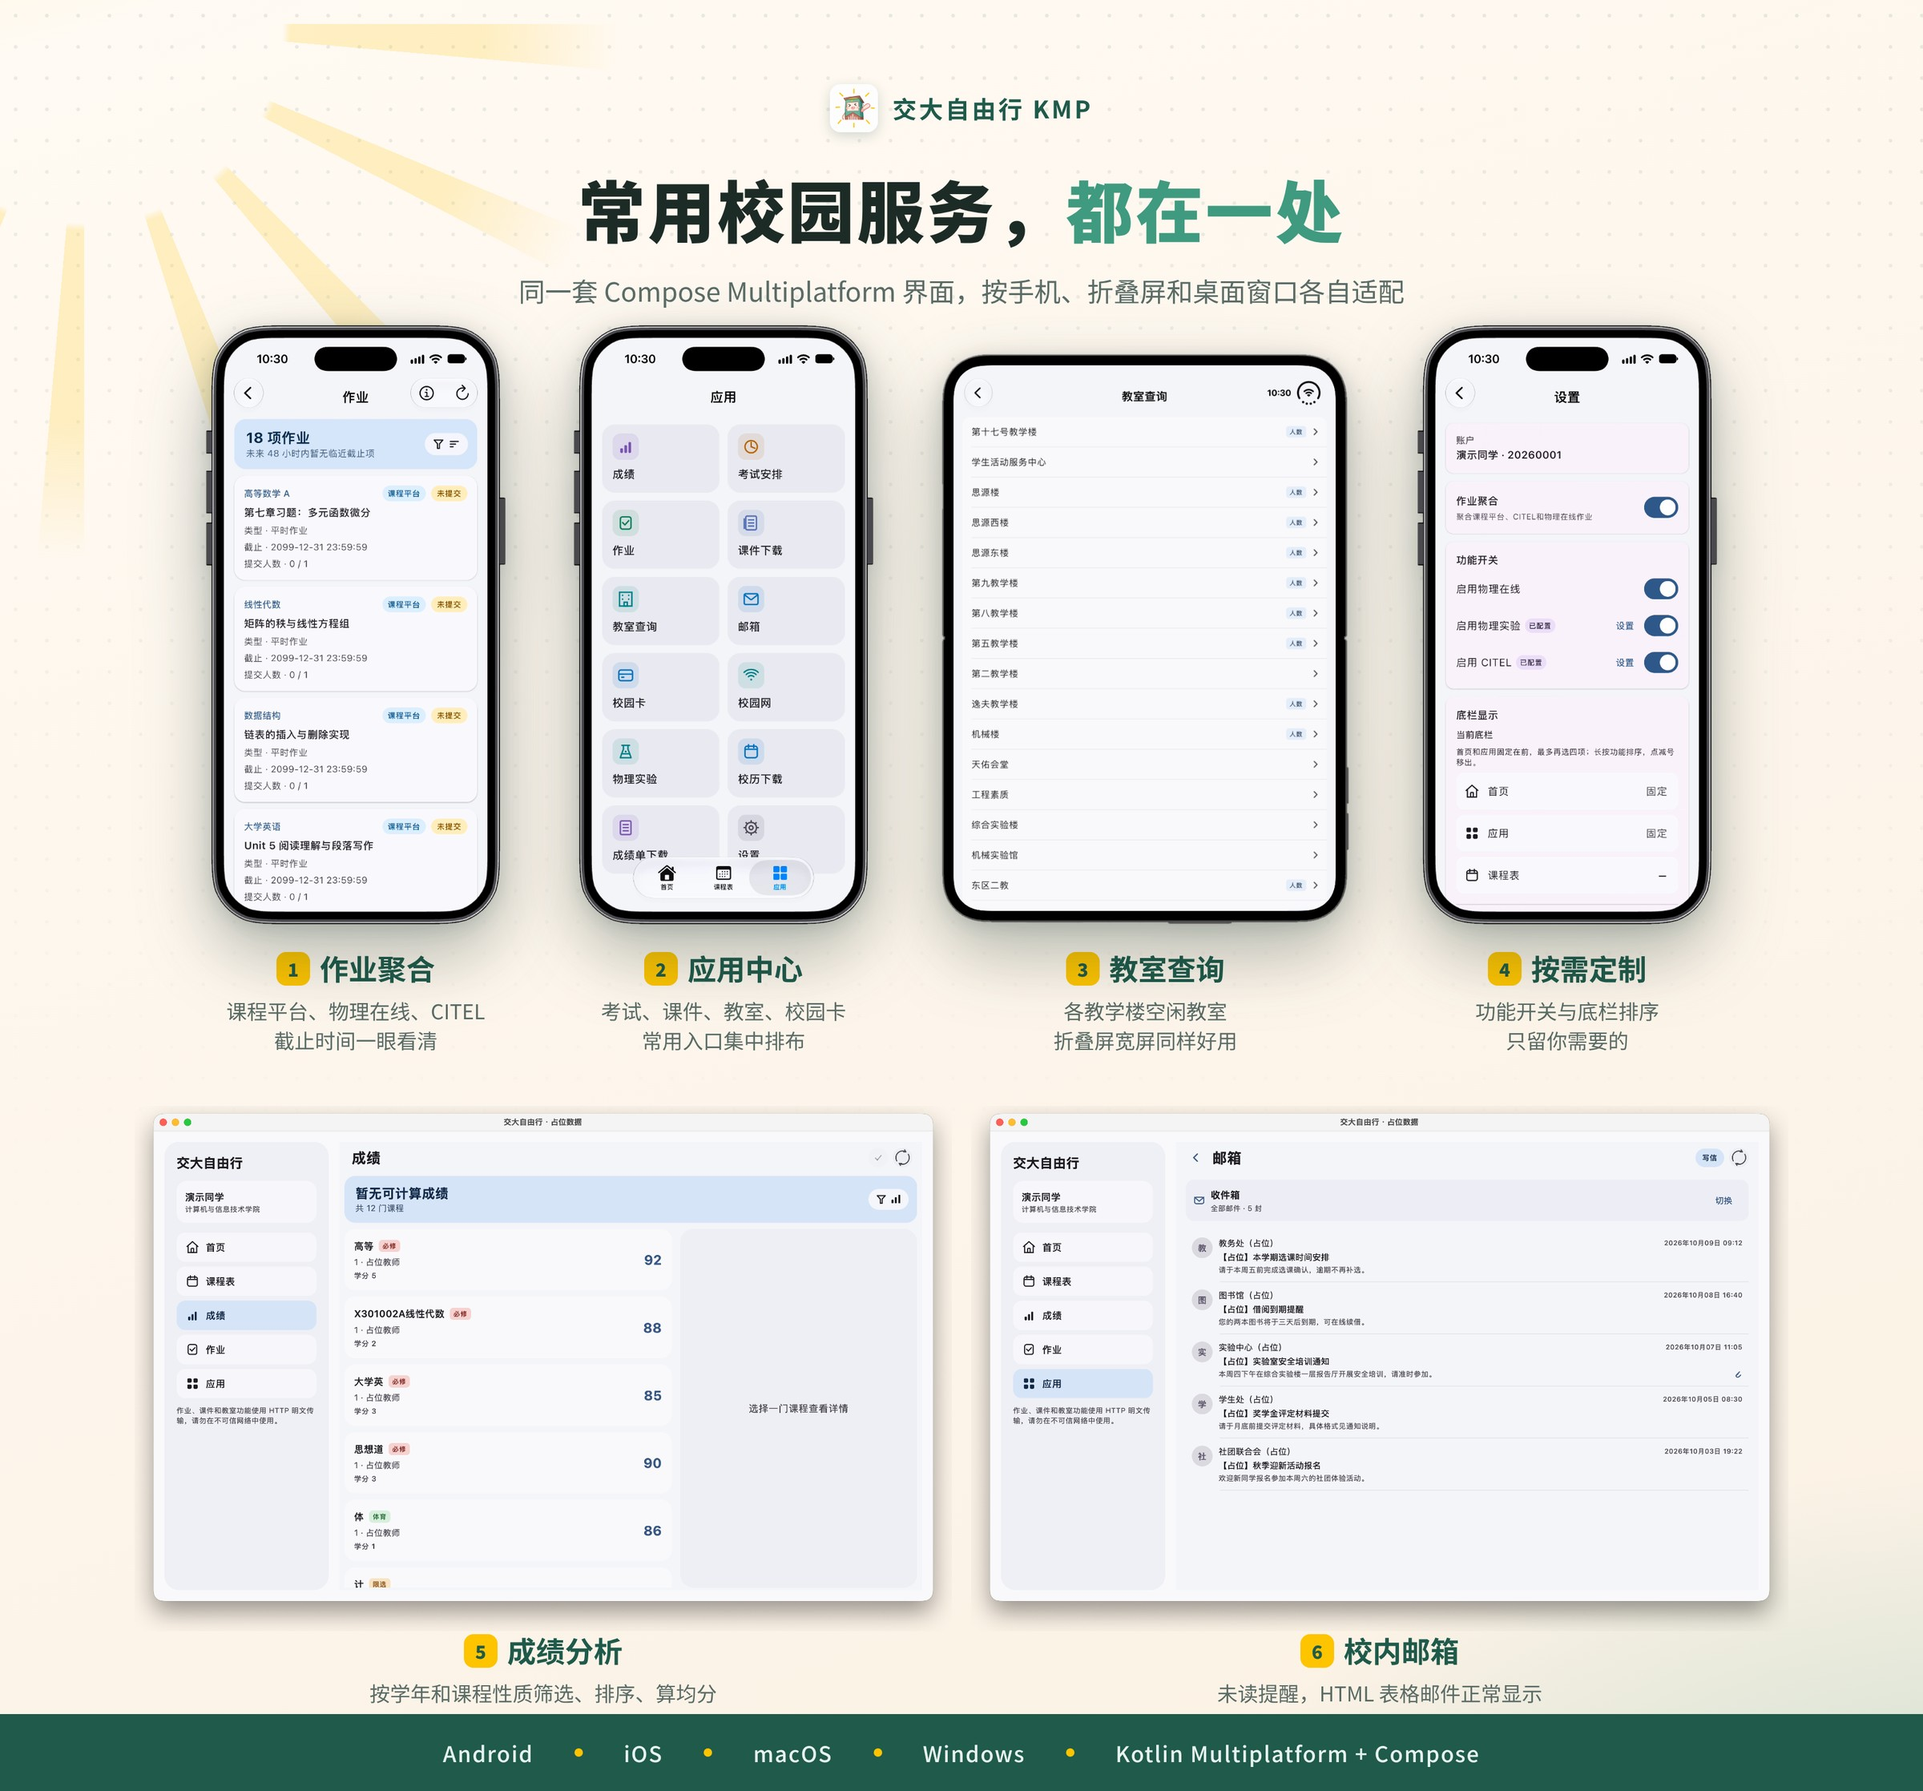
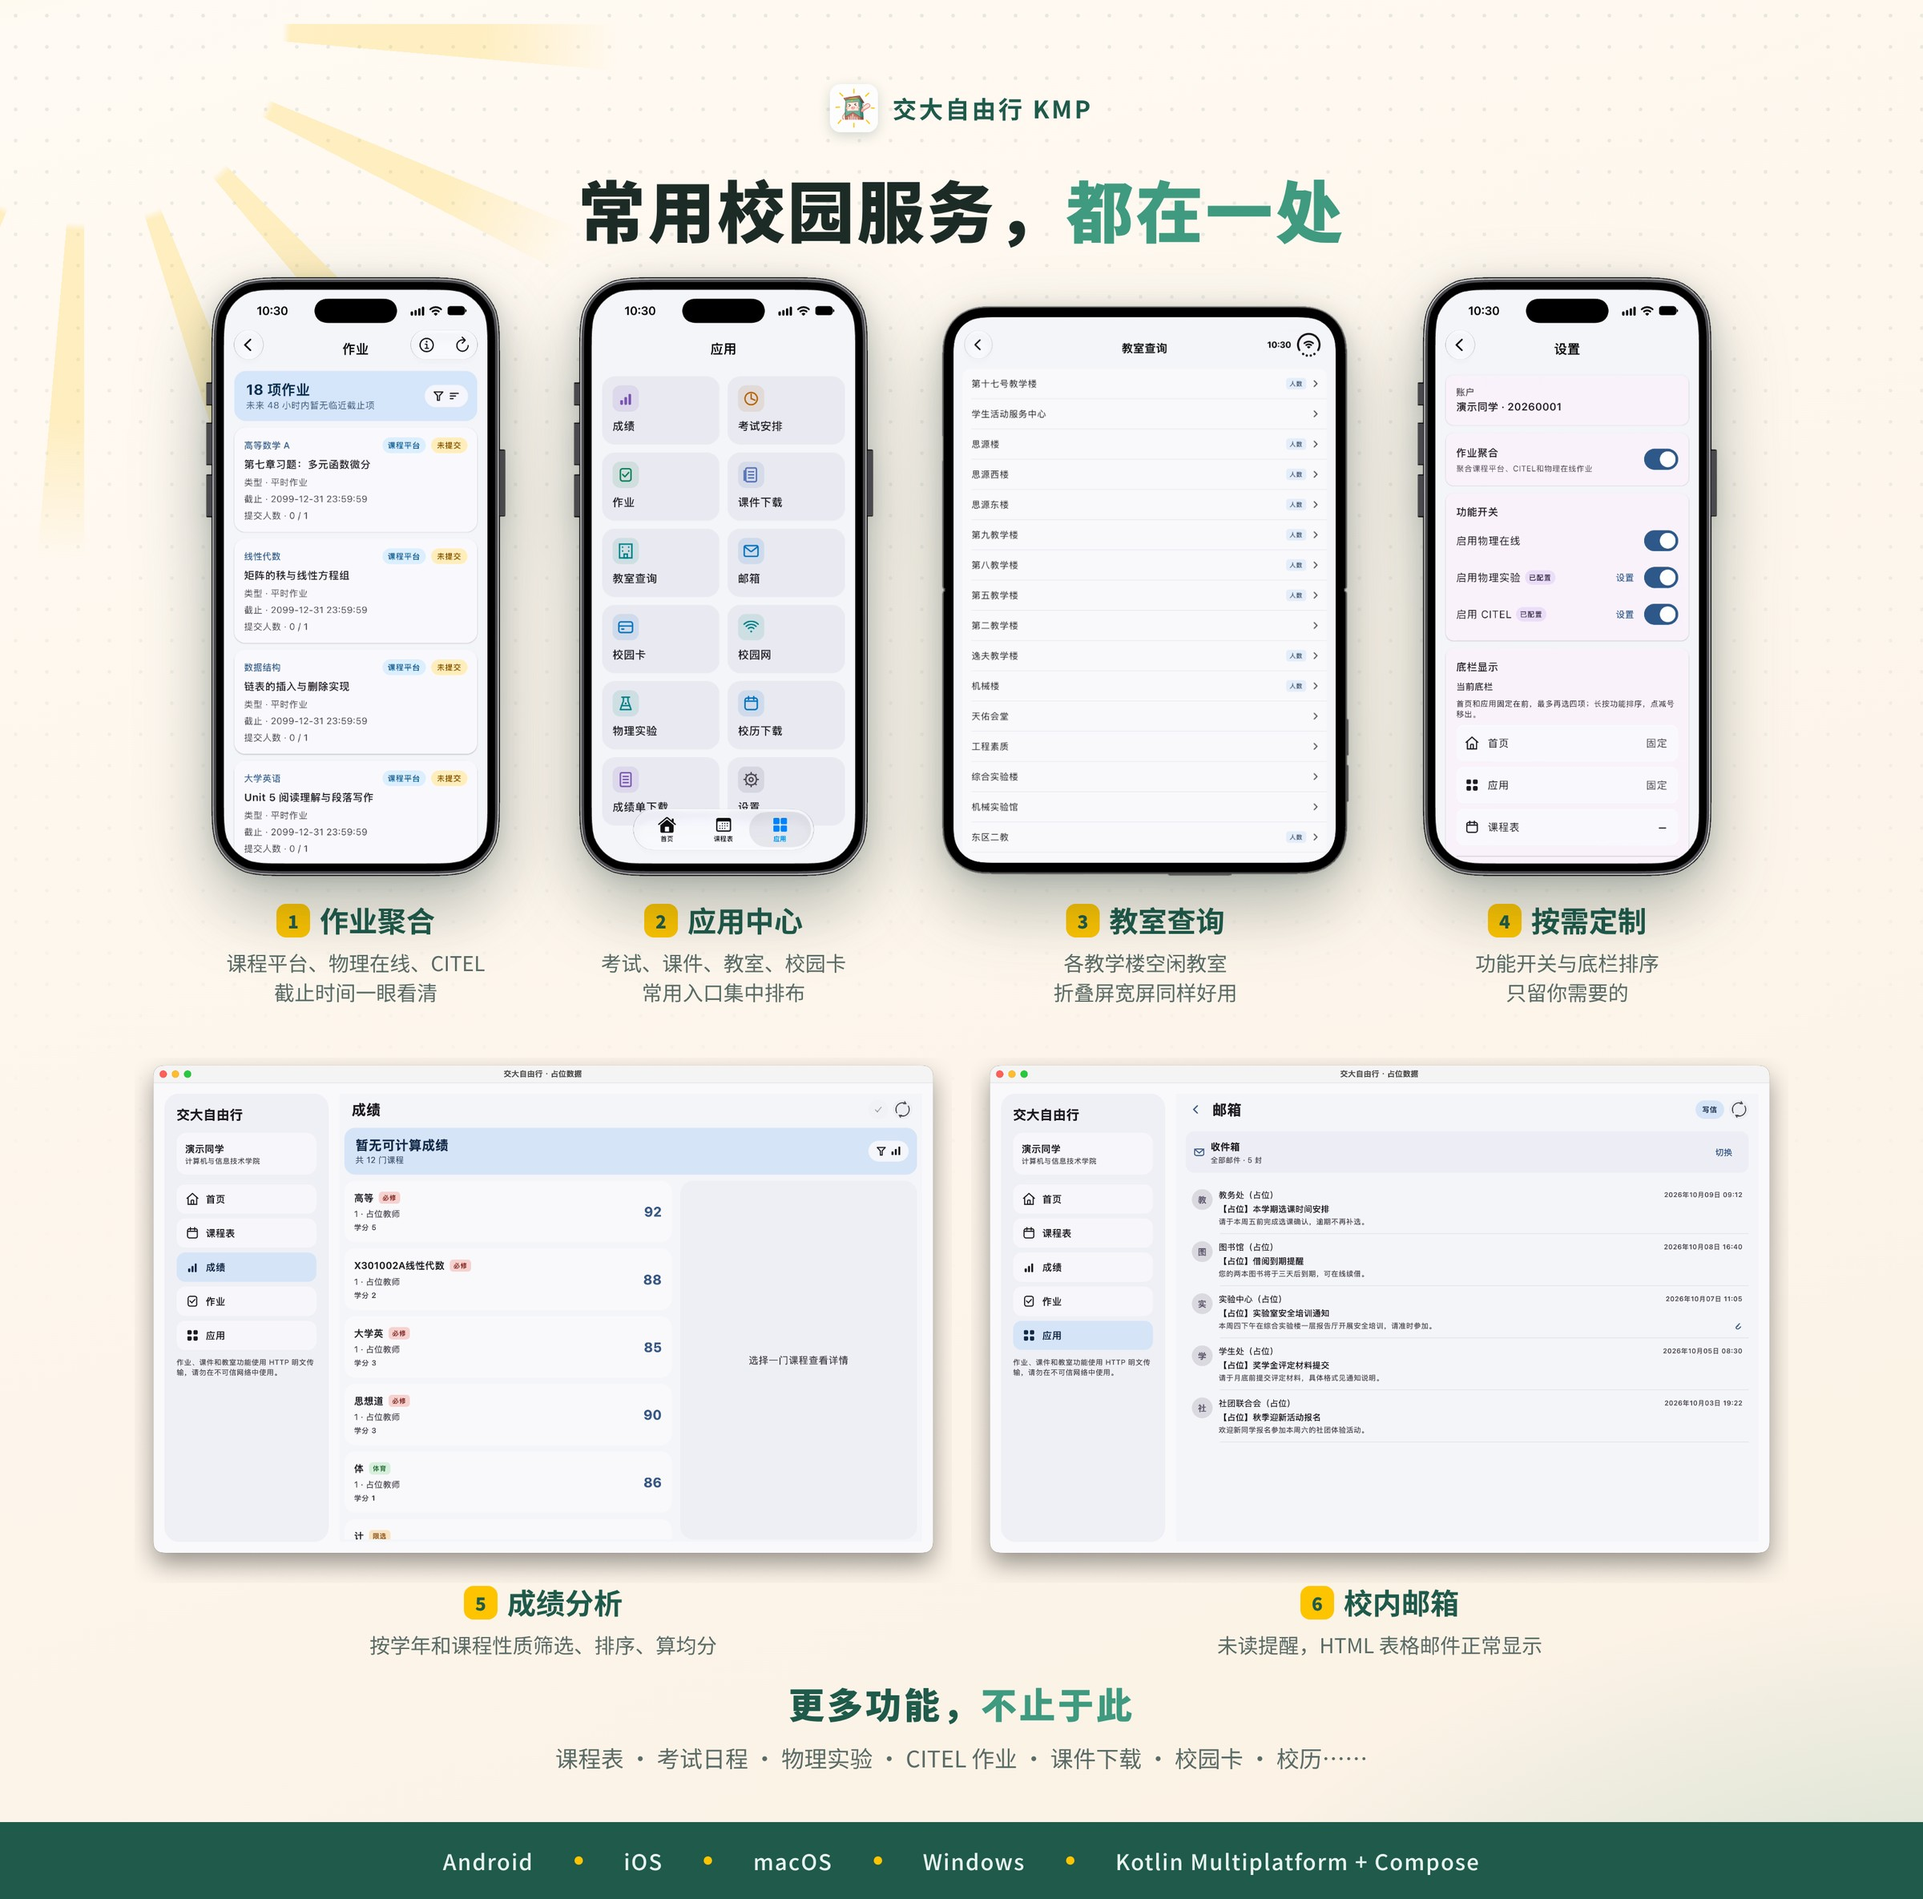
docs: 功能长图删去副标题，补充“更多功能，不止于此”
Claude-Session: https://claude.ai/code/session_01Hudz97UzvxBWrptu63xpfv

diff --git a/README.md b/README.md
@@ -29,7 +29,7 @@ _**相对原版新增/增强的功能（节选）：**_
 - _**邮箱简单的前端壳子**_
 - **_iOS（现已支持iPhone Duo） + Mac OS + Windows 端_**
 
-<p align="center"><img src="docs/images/promo-features.jpg" alt="功能一览：作业聚合、应用中心、教室查询、按需定制、成绩分析、校内邮箱" width="100%"></p>
+<p align="center"><img src="docs/images/promo-features.jpg" alt="功能一览：作业聚合、应用中心、教室查询、按需定制、成绩分析、校内邮箱，更多功能不止于此" width="100%"></p>
 
 ## 📱 支持平台
 
